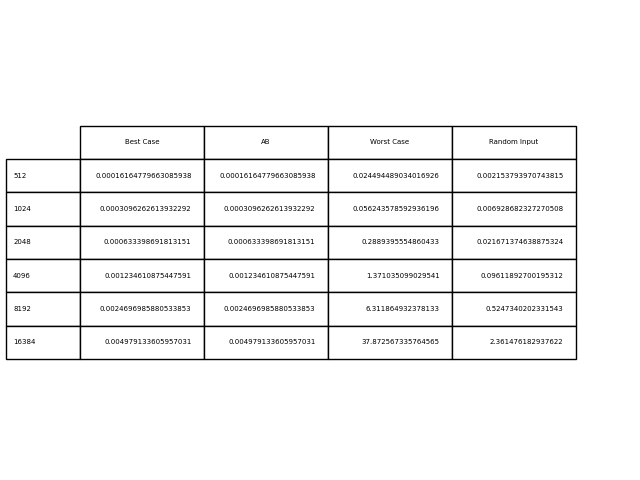
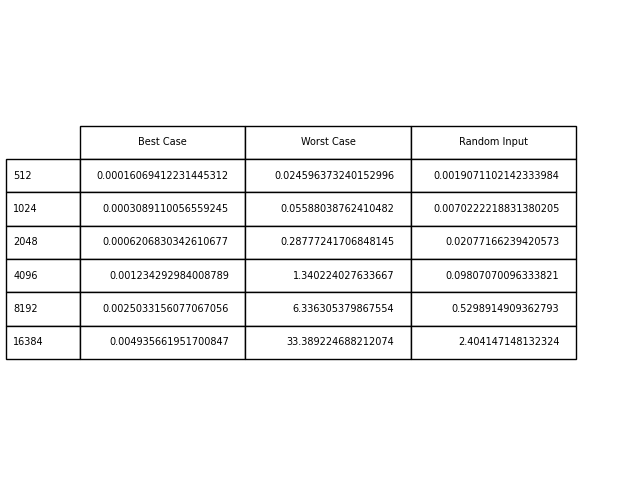
update

diff --git a/hw5/eqsubstr.py b/hw5/eqsubstr.py
@@ -64,8 +64,7 @@ def matching_length_sub_strs(s, c1, c2):
                 else:
                     c2_dict[count2] = [index2]
                 count2 = 0
-                
-    
+
     for key in c1_dict:
         if key in c2_dict:
             for c1_value in c1_dict[key]:
@@ -102,28 +101,19 @@ def getSize(n):
 # write a function to generate the best case
 def getBest(n):
     ans = ""
-    for i in range(n):
-        ans += "a"
-    return ans
-
-# write a function to generate the best case
-def getAB(n):
-    choices = ['a', 'b']
-    pattern_choice = random.choice([1, 2])  # 1 represents (a*b*), 2 represents (b*a*)
-
-    length = n   # Ensure that the sum of a_count and b_count does not exceed n
-    
+    pattern_choice = random.choice([1, 2])  
+    length = n
     if pattern_choice == 1:
         a_count = random.randint(0, length)
         b_count = length - a_count
         sequence = ['a'] * a_count + ['b'] * b_count
-        result = ''.join(sequence)    
+        ans = ''.join(sequence)    
     else:
         b_count = random.randint(0, length)
         a_count = length - b_count
         sequence = ['b'] * b_count + ['a'] * a_count
-        result = ''.join(sequence)
-    return result
+        ans = ''.join(sequence)
+    return ans
 
 # write a function to generate the best case
 def getWorst(n):
@@ -134,19 +124,16 @@ def getWorst(n):
 
 def getString(sizeArr):
     best = []
-    AB = []
     worst = []
     randomS = []
     for i in range(len(sizeArr)):
         best.append(getBest(sizeArr[i]))
-        AB.append(getAB(sizeArr[i]))
         worst.append(getWorst(sizeArr[i]))
         randomS.append(rndstr(sizeArr[i]))
-    return [best, AB, worst, randomS]
+    return [best, worst, randomS]
 
 def getTime(strings):
     timeBest = []
-    timeAB = []
     timeWorst =[]
     timeRandom = []
     
@@ -155,19 +142,15 @@ def getTime(strings):
         matching_length_sub_strs(strings[0][i], "a", "b")
         timeBest.append(time.time() - timeBeforeBest)
         
-        timeBeforeAB = time.time()
-        matching_length_sub_strs(strings[1][i], "a", "b")
-        timeAB.append(time.time() - timeBeforeAB)
-        
         timeBeforeWorst = time.time()
-        matching_length_sub_strs(strings[2][i], "a", "b")
+        matching_length_sub_strs(strings[1][i], "a", "b")
         timeWorst.append(time.time() - timeBeforeWorst)
         
         timeBeforeRandom = time.time()
-        matching_length_sub_strs(strings[3][i], "a", "b")
+        matching_length_sub_strs(strings[2][i], "a", "b")
         timeRandom.append(time.time() - timeBeforeRandom)
     
-    return [timeBest, timeAB, timeWorst, timeRandom]
+    return [timeBest, timeWorst, timeRandom]
 
 def main():
     sizeArr = getSize(512)
@@ -181,7 +164,7 @@ def main():
     rowname = []
     
     # calculate the average runtime
-    for i in range(4):
+    for i in range(3):
         tmp = []
         for j in range(len(sizeArr)):
             tmp.append((time1[i][j] + time2[i][j] + time3[i][j]) / 3)
@@ -192,8 +175,7 @@ def main():
         print(sizeArr[i], ",",
               time[0][i], ",",
               time[1][i], ",",
-              time[2][i], ",",
-              time[3][i], "\n")
+              time[2][i], "\n")
     
     # The following part are comment for submitting
     
@@ -201,9 +183,8 @@ def main():
     plt.figure(figsize=(8, 6))
 
     plt.plot(sizeArr, time[0], label='Best Case', color='blue')
-    plt.plot(sizeArr, time[1], label='AB', color='orange')
-    plt.plot(sizeArr, time[2], label='Worst Case', color='green')
-    plt.plot(sizeArr, time[3], label='Random Input', color='red')
+    plt.plot(sizeArr, time[1], label='Worst Case', color='green')
+    plt.plot(sizeArr, time[2], label='Random Input', color='red')
     plt.xlabel('Input Size')
     plt.ylabel('Runtime')
     plt.title('Matching Length Substrings')
@@ -217,11 +198,9 @@ def main():
 
     table = pd.DataFrame()
     table['Best Case'] = time[0]
-    table['AB'] = time[0]
-    table['Worst Case'] = time[2]
-    table['Random Input'] = time[3]
+    table['Worst Case'] = time[1]
+    table['Random Input'] = time[2]
     table.index = rowname # type: ignore
-        
     ax.axis('tight')
     ax.axis('off')
 
